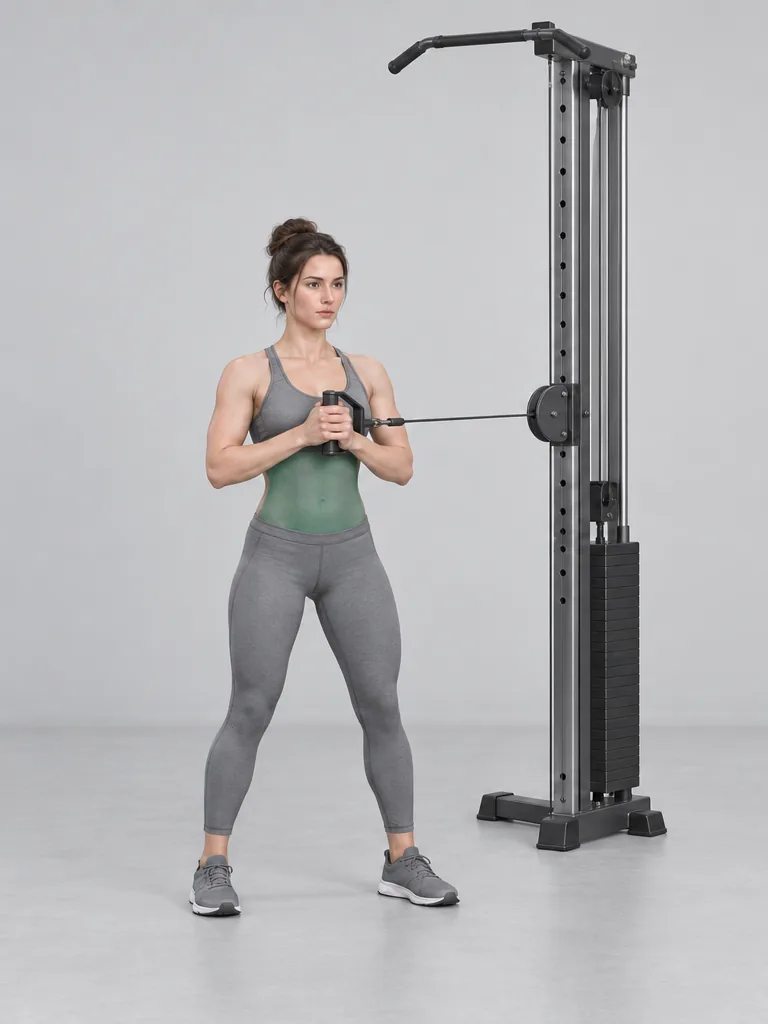
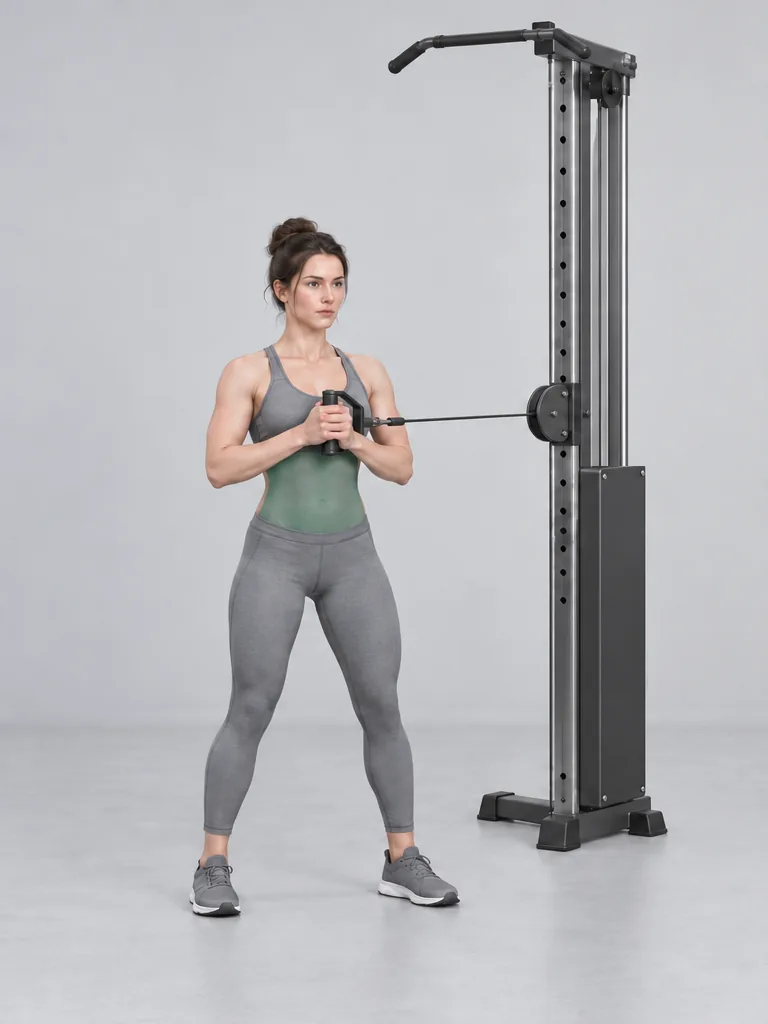
fix: integrate female Pallof closed-load guidance

diff --git a/docs/superpowers/plans/2026-10-15-exercise-guidance-detail-audit.md b/docs/superpowers/plans/2026-10-15-exercise-guidance-detail-audit.md
@@ -14,7 +14,7 @@
 
 ## Global Constraints
 
-**Local-composition continuation evidence (2026-10-15):** The background pilot validated zero decoded-pixel change outside the declared ROI only with explicit lossless WebP; its repeated-strip, alpha-patch and opaque-patch variants all failed visual matching and were not applied. One bounded seated-curl attachment edit and one joint female prone-curl mechanism edit also failed fixed-axis/attachment or seam gates. A subsequent existing-panel Pallof reuse enclosed the ambiguous fitting but retained a visible panel join; it too was rejected. Do not repeat these strategies blindly or count any as an accepted repair. Current production and the12 accepted groups remain unchanged. A separate optional request to permit precise existing-pixel cutouts, component transforms and seam color matching is pending; the original full plan and rectangular crop/paste workflow remain approved. Do not use that added capability before approval or treat its pending status as revocation of already-authorized safe work.
+**Local-composition continuation evidence (2026-10-15):** The background pilot validated zero decoded-pixel change outside the declared ROI only with explicit lossless WebP; its repeated-strip, alpha-patch and opaque-patch variants all failed visual matching and were not applied. One bounded seated-curl attachment edit and one joint female prone-curl mechanism edit also failed fixed-axis/attachment or seam gates. A subsequent existing-panel Pallof reuse enclosed the ambiguous fitting but retained a visible panel join; it too was rejected. Do not repeat these strategies blindly or count any as an accepted repair. User has since explicitly APPROVED precise existing-pixel cutouts, necessary component translation/rotation and seam color matching, in addition to the already-approved full plan and rectangular workflow. Do not wait or ask again. New anatomy/apparatus drawing remains built-in ImageGen only; mechanical processing may extract/transform existing components and match declared repair seams, not invent new anatomy/device geometry. Seam-matched follow-up candidates still need actual-image independent acceptance; prior failed stages are not retroactively passed.
 
 - Audit exactly 120 actions, 240 action/gender groups and 590 current production frames; no sampling-only completion claim.
 - Production WebPs, not possibly divergent candidate mother sheets, are the audit authority.

diff --git a/docs/superpowers/reviews/2026-10-15-exercise-guidance-detail-audit.md b/docs/superpowers/reviews/2026-10-15-exercise-guidance-detail-audit.md
@@ -87,4 +87,4 @@
 
 像素锁定的比较基准须如实区分：俯卧弯举以原生产WebP为底图；坐姿重建设备和Pallof面板试验以未上线的既有候选为底图，不能据此声称原生产图其他部分完全未变。精确提示词、版本、矩形坐标、编码、哈希及拒绝理由保存在对应`task-2-roi-pilot-report.md`、`task-2-curl-attachment-trial-report.md`、`task-2-prone-curl-local-trial-report.md`、`task-2-pallof-panel-reuse-report.md`中，均位于本计划的SDD目录。最新完整590帧校验仍为16帧已修、574帧与基线一致；12组已验收来源哈希及冻结审计观察未变。
 
-另已提出是否允许“原图部件精确抠图、必要的平移/旋转与接缝色彩匹配”的可选扩展，目前尚待用户选择；不会擅自使用。此前完整计划与矩形裁切/粘贴的批准继续有效，不重复索要原有批准。新增人体或器械内容仍仅由内置ImageGen完成。
+用户随后已明确批准“原图部件精确抠图、必要的平移/旋转与接缝色彩匹配”；此前完整计划与矩形裁切/粘贴的批准也继续有效，不再等待或重复询问。脚本可处理既有部件与声明修复区的接缝，不能凭空绘制新人体或器械结构；新增人体或器械内容仍仅由内置ImageGen完成。后续候选仍须实际WebP独立复核，不能将此前失败阶段倒算为通过。
